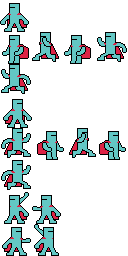
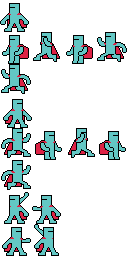
Eliminate per-part armor images

diff --git a/lib/mid/player.c b/lib/mid/player.c
@@ -10,7 +10,7 @@ static Point hboff = { 7, 2 };
 
 static Sfx *ow;
 
-static void loadanim(Anim *a, int, int, int, int);
+static void loadanim(Anim *a, int, int, int);
 static void chngdir(Player *b);
 static void chngact(Player *b);
 static Point scroll(Player*, Point delta);
@@ -20,7 +20,6 @@ static double jmp(Player *);
 static void mvsw(Player *);
 static Rect attackclip(Player *p, int up);
 static ArmorSetID armset(Player*);
-static EqpLoc armtoeqp(ArmorLoc);
 
 void playerinit(Player *p, int x, int y)
 {
@@ -34,14 +33,12 @@ void playerinit(Player *p, int x, int y)
 	ow = resrcacq(sfx, "sfx/ow.wav", NULL);
 	assert(ow != NULL);
 
-	for(int i = 0; i < ArmorMax; i++){
-		loadanim(&p->as[Left][Stand][i], 0, 1, 1, i);
-		loadanim(&p->as[Left][Walk][i], 1, 4, 100, i);
-		loadanim(&p->as[Left][Jump][i], 2, 1, 1, i);
-		loadanim(&p->as[Right][Stand][i], 3, 1, 1, i);
-		loadanim(&p->as[Right][Walk][i], 4, 4, 100, i);
-		loadanim(&p->as[Right][Jump][i], 5, 1, 1, i);
-	}
+	loadanim(&p->as[Left][Stand], 0, 1, 1);
+	loadanim(&p->as[Left][Walk], 1, 4, 100);
+	loadanim(&p->as[Left][Jump], 2, 1, 1);
+	loadanim(&p->as[Right][Stand], 3, 1, 1);
+	loadanim(&p->as[Right][Walk], 4, 4, 100);
+	loadanim(&p->as[Right][Jump], 5, 1, 1);
 
 	p->dir = Right;
 	p->act = Stand;
@@ -138,9 +135,9 @@ void playerupdate(Player *p, Zone *zn, Point *tr)
 	chngdir(p);
 	chngact(p);
 	if(p->dir != prevdir)
-		for(int i = 0; i < ArmorMax; i++) animreset(&p->as[p->dir][p->act][i]);
+		animreset(&p->as[p->dir][p->act]);
 	else
-		for(int i = 0; i < ArmorMax; i++) animupdate(&p->as[p->dir][p->act][i]);
+		animupdate(&p->as[p->dir][p->act]);
 
 	Point del = { playerpos(p).x - ppos.x, playerpos(p).y - ppos.y };
 	*tr = scroll(p, del);
@@ -170,24 +167,11 @@ void playerdraw(Gfx *g, Player *p)
 
 	if(p->iframes % 4 == 0){
 		if(p->sframes > 8)
-			for(int i = 0; i < ArmorMax; i++){
-				int loc = armtoeqp(i);
-				ArmorSetID as = itemarmorset(p->wear[loc].id);
-				imgdrawreg(g, armorsetsheet(as, i), attackclip(p, 0), p->imgloc);
-			}
+			imgdrawreg(g, knightsheet, attackclip(p, 0), p->imgloc);
 		else if(p->sframes > 0)
-			for(int i = 0; i < ArmorMax; i++){
-				int loc = armtoeqp(i);
-				ArmorSetID as = itemarmorset(p->wear[loc].id);
-				imgdrawreg(g, armorsetsheet(as, i), attackclip(p, 1), p->imgloc);
-			}
+			imgdrawreg(g, knightsheet, attackclip(p, 1), p->imgloc);
 		else
-			for(int i = 0; i < ArmorMax; i++){
-				int loc = armtoeqp(i);
-				ArmorSetID as = itemarmorset(p->wear[loc].id);
-				p->as[p->dir][p->act][i].sheet = armorsetsheet(as, i);
-				animdraw(g, &p->as[p->dir][p->act][i], p->imgloc);
-			}
+			animdraw(g, &p->as[p->dir][p->act], p->imgloc);
 	}
 
 	if(p->sw.cur >= 0)
@@ -274,9 +258,10 @@ _Bool playertake(Player *p, Item *i){
 	return 0;
 }
 
-static void loadanim(Anim *a, int row, int len, int delay, int shid)
+static void loadanim(Anim *a, int row, int len, int delay)
 {
 	*a = (Anim){
+		.sheet = knightsheet,
 		.row = row,
 		.len = len,
 		.delay = delay/Ticktm,
@@ -397,20 +382,4 @@ static ArmorSetID armset(Player *p){
 			return 0;
 
 	return as;
-}
-
-static EqpLoc armtoeqp(ArmorLoc loc){
-	switch(loc){
-	case ArmorBackArm:
-	case ArmorFrontArm:
-		return EqpArms;
-	case ArmorHead:
-		return EqpHead;
-	case ArmorBody:
-		return EqpBody;
-	case ArmorLegs:
-		return EqpLegs;
-	default:
-		return -1;
-	}
 }

diff --git a/lib/mid/armor.c b/lib/mid/armor.c
@@ -8,7 +8,6 @@ struct ArmorOps{
 	void (*bonus)(Player *);
 	char *sheetname;
 	Img *invsheet;
-	Img *parts[ArmorMax];
 };
 
 static void nobonus(Player*);
@@ -25,37 +24,26 @@ static ArmorOps ops[] = {
 	},
 };
 
-static char *partname[] = {
-	[ArmorBackArm] = "arm-back",
-	[ArmorBody] = "body",
-	[ArmorHead] = "helm",
-	[ArmorFrontArm] = "arm-front",
-	[ArmorLegs] = "legs"
-};
+Img *knightsheet;
 
 void armorinit(void){
 	char buf[128];
+
+	if(!knightsheet){
+		knightsheet = resrcacq(imgs, "img/knight.png", NULL);
+		assert(knightsheet != NULL);
+	}
 
 	for(int i = ArmorSetNone; i < ArmorSetMax; i++){
 		ArmorOps *op = &ops[i];
 		snprintf(buf, sizeof(buf), "img/%s.png", op->sheetname);
 		op->invsheet = resrcacq(imgs, buf, NULL);
 		assert(op->invsheet != NULL);
-
-		for(int j = ArmorBackArm; j < ArmorMax; j++){
-			snprintf(buf, sizeof(buf), "img/%s-%s.png", op->sheetname, partname[j]);
-			op->parts[j] = resrcacq(imgs, buf, NULL);
-			assert(op->parts[j] != NULL);
-		}
 	}
 }
 
 void applyarmorbonus(Player *p, ArmorSetID id){
 	ops[id].bonus(p);
-}
-
-Img *armorsetsheet(ArmorSetID as, ArmorLoc loc){
-	return ops[as].parts[loc];
 }
 
 Img *armorinvsheet(ArmorSetID id){

diff --git a/include/mid.h b/include/mid.h
@@ -466,10 +466,10 @@ enum ArmorSetID{
 	ArmorSetMax
 };
 
+extern Img *knightsheet;
 void armorinit(void);
 ArmorSetID itemarmorset(ItemID);
 void applyarmorbonus(Player*, ArmorSetID);
-Img *armorsetsheet(ArmorSetID, ArmorLoc);
 Img *armorinvsheet(ArmorSetID);
 
 typedef enum Dir {
@@ -479,7 +479,7 @@ typedef enum Dir {
 } Dir;
 
 struct Player {
-	Anim as[Ndirs][Nacts][ArmorMax];
+	Anim as[Ndirs][Nacts];
 	Dir dir;
 	Act act;
 	Point imgloc;
